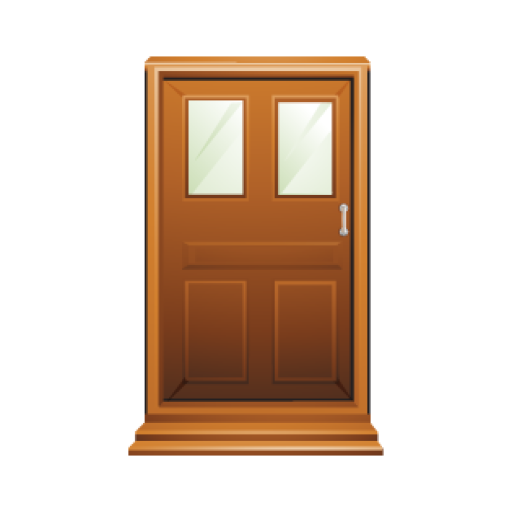
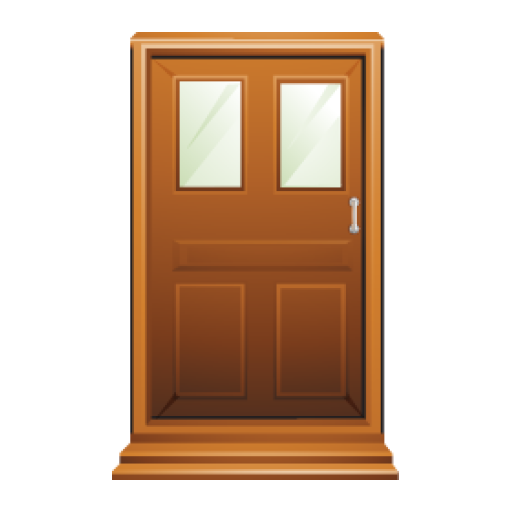
Images now scale to the right size. Attempt at transition animations but doesn't work on my dated android.

Changed region(s): [[0.2188, 0.0625, 0.7812, 0.9375], [0.3438, 0.5312, 0.4688, 0.6875]]

diff --git a/src/au/edu/anu/club/cs/cssadoorwidget/NetworkTask.java b/src/au/edu/anu/club/cs/cssadoorwidget/NetworkTask.java
@@ -14,20 +14,22 @@ import org.apache.http.impl.client.DefaultHttpClient;
 import android.appwidget.AppWidgetManager;
 import android.content.ComponentName;
 import android.content.Context;
+import android.graphics.drawable.TransitionDrawable;
 import android.net.ConnectivityManager;
 import android.net.NetworkInfo;
 import android.os.AsyncTask;
 import android.widget.RemoteViews;
 import android.widget.Toast;
 
-public class NetworkTask extends AsyncTask<Context, Void, Void> {
-	
+public class NetworkTask extends AsyncTask<Context, Void, Void> { 
+
 	private enum Result {OPEN, CLOSED, NO_INTERNET, OTHER_ERROR}
 	private Result result = null;
 	private Context context;
-	
+
 	private static final String DOOR_URI = "http://cs.club.anu.edu.au/files/doorstate.txt";
 	private static final String OPEN_STRING = "open";
+	private static final int TRANSITION_LENGTH_MILLIS = 500;
 
 	@Override
 	protected Void doInBackground(Context... argv) {
@@ -48,14 +50,14 @@ public class NetworkTask extends AsyncTask<Context, Void, Void> {
 		}
 		return null;
 	}
-	
+
 	private boolean isOnline(Context context) {
-	    ConnectivityManager cm =
-	        (ConnectivityManager) context.getSystemService(Context.CONNECTIVITY_SERVICE);
-	    NetworkInfo netInfo = cm.getActiveNetworkInfo();
-	    return netInfo != null && netInfo.isConnectedOrConnecting();
+		ConnectivityManager cm =
+				(ConnectivityManager) context.getSystemService(Context.CONNECTIVITY_SERVICE);
+		NetworkInfo netInfo = cm.getActiveNetworkInfo();
+		return netInfo != null && netInfo.isConnectedOrConnecting();
 	}
-	
+
 	private boolean isDoorOpen() throws DoorAccessException {
 		HttpClient client = new DefaultHttpClient();
 		HttpGet request = new HttpGet(DOOR_URI);
@@ -70,28 +72,27 @@ public class NetworkTask extends AsyncTask<Context, Void, Void> {
 			throw new DoorAccessException(e);
 		}
 	}
-	
+
 	@Override
 	public void onPostExecute(Void v) {
 		RemoteViews rv = new RemoteViews(context.getPackageName(), R.layout.door_widget);
+		//TransitionDrawable td = (TransitionDrawable) context.getResources().getDrawable(R.id.door_transition);
 		switch (result) {
 		case OPEN:
+			//td.startTransition(TRANSITION_LENGTH_MILLIS);
 			rv.setImageViewResource(R.id.door_button, R.drawable.door_open_selector);
-			Toast.makeText(context, R.string.toast_door_open, Toast.LENGTH_SHORT).show();
-			logv(this, context.getResources().getString(R.string.toast_door_open));
+			report(R.string.toast_door_open);
 			break;
 		case CLOSED:
+			//td.reverseTransition(TRANSITION_LENGTH_MILLIS);
 			rv.setImageViewResource(R.id.door_button, R.drawable.door_closed_selector);
-			Toast.makeText(context, R.string.toast_door_closed, Toast.LENGTH_SHORT).show();
-			logv(this, context.getResources().getString(R.string.toast_door_closed));
+			report(R.string.toast_door_closed);
 			break;
 		case NO_INTERNET:
-			Toast.makeText(context, R.string.toast_no_internet, Toast.LENGTH_SHORT).show();
-			logv(this, context.getResources().getString(R.string.toast_no_internet));
+			report(R.string.toast_no_internet);
 			break;
 		case OTHER_ERROR:
-			Toast.makeText(context, R.string.toast_update_failed, Toast.LENGTH_SHORT).show();
-			logv(this, context.getResources().getString(R.string.toast_update_failed));
+			report(R.string.toast_update_failed);
 			break;
 		}
 		AppWidgetManager appWidgetManager = AppWidgetManager.getInstance(context);
@@ -99,4 +100,9 @@ public class NetworkTask extends AsyncTask<Context, Void, Void> {
 		appWidgetManager.updateAppWidget(watchWidget, rv);
 	}
 
+	private void report(int strId) {
+		Toast.makeText(context, strId, Toast.LENGTH_SHORT).show();
+		logv(this, context.getResources().getString(strId));
+	}
 }
+
